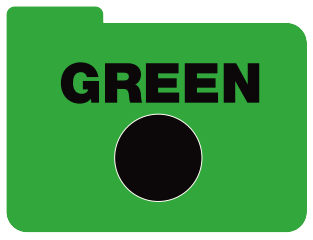
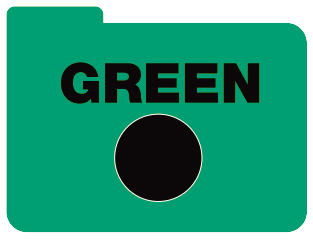
Update sections referencing materials; update green badge with colorblind-friendly version

diff --git a/faq.html b/faq.html
@@ -200,7 +200,7 @@
                         It's encouraged!
                     </p>
                     <p>
-                        Feel free to use the materials provided on this site [to come], or create your own. If you have questions about how to go about it, you can contact <a href="http://autisticadvocacy.org">ASAN</a> at info@autisticadvocacy.org.
+                        Feel free to use <a href="materials.html">the materials provided on this site</a>, or create your own. You can also contact <a href="http://autisticadvocacy.org">ASAN</a> at info@autisticadvocacy.org with questions.
                     </p>
                 </div>
             </div>
@@ -233,7 +233,7 @@
             <a href="meanings.html">Color Meanings</a> |
             <a href="faq.html">FAQ</a> |
             <a href="materials.html">Materials</a> |
-            <a href="additional-resources.html">Tips &amp; Resources</a> 
+            <a href="additional-resources.html">Tips &amp; Resources</a>
             ]
         </div>
     </div>

diff --git a/overview.html b/overview.html
@@ -199,8 +199,9 @@
                 <h2>So how do I (figuratively) sign up?</h2>
 
                 <div class="content">
-                    <p>[info to come]</p>
-                    <p>[Will contain info about how to get already-made sets, with a link to a kit for printing oneself if preferred]</p>
+                    <p>
+                        If you are part of UConn's Neurobiology of Language community and want a pre-made set, Rachael will have some in the Elbow Room (while they last). Otherwise, you can find <a href="materials.html">materials to print here</a> as well as suggestions for use and implementation (e.g., how to hang the cards on your door).
+                    </p>
                 </div>
             </div>
         </div>
